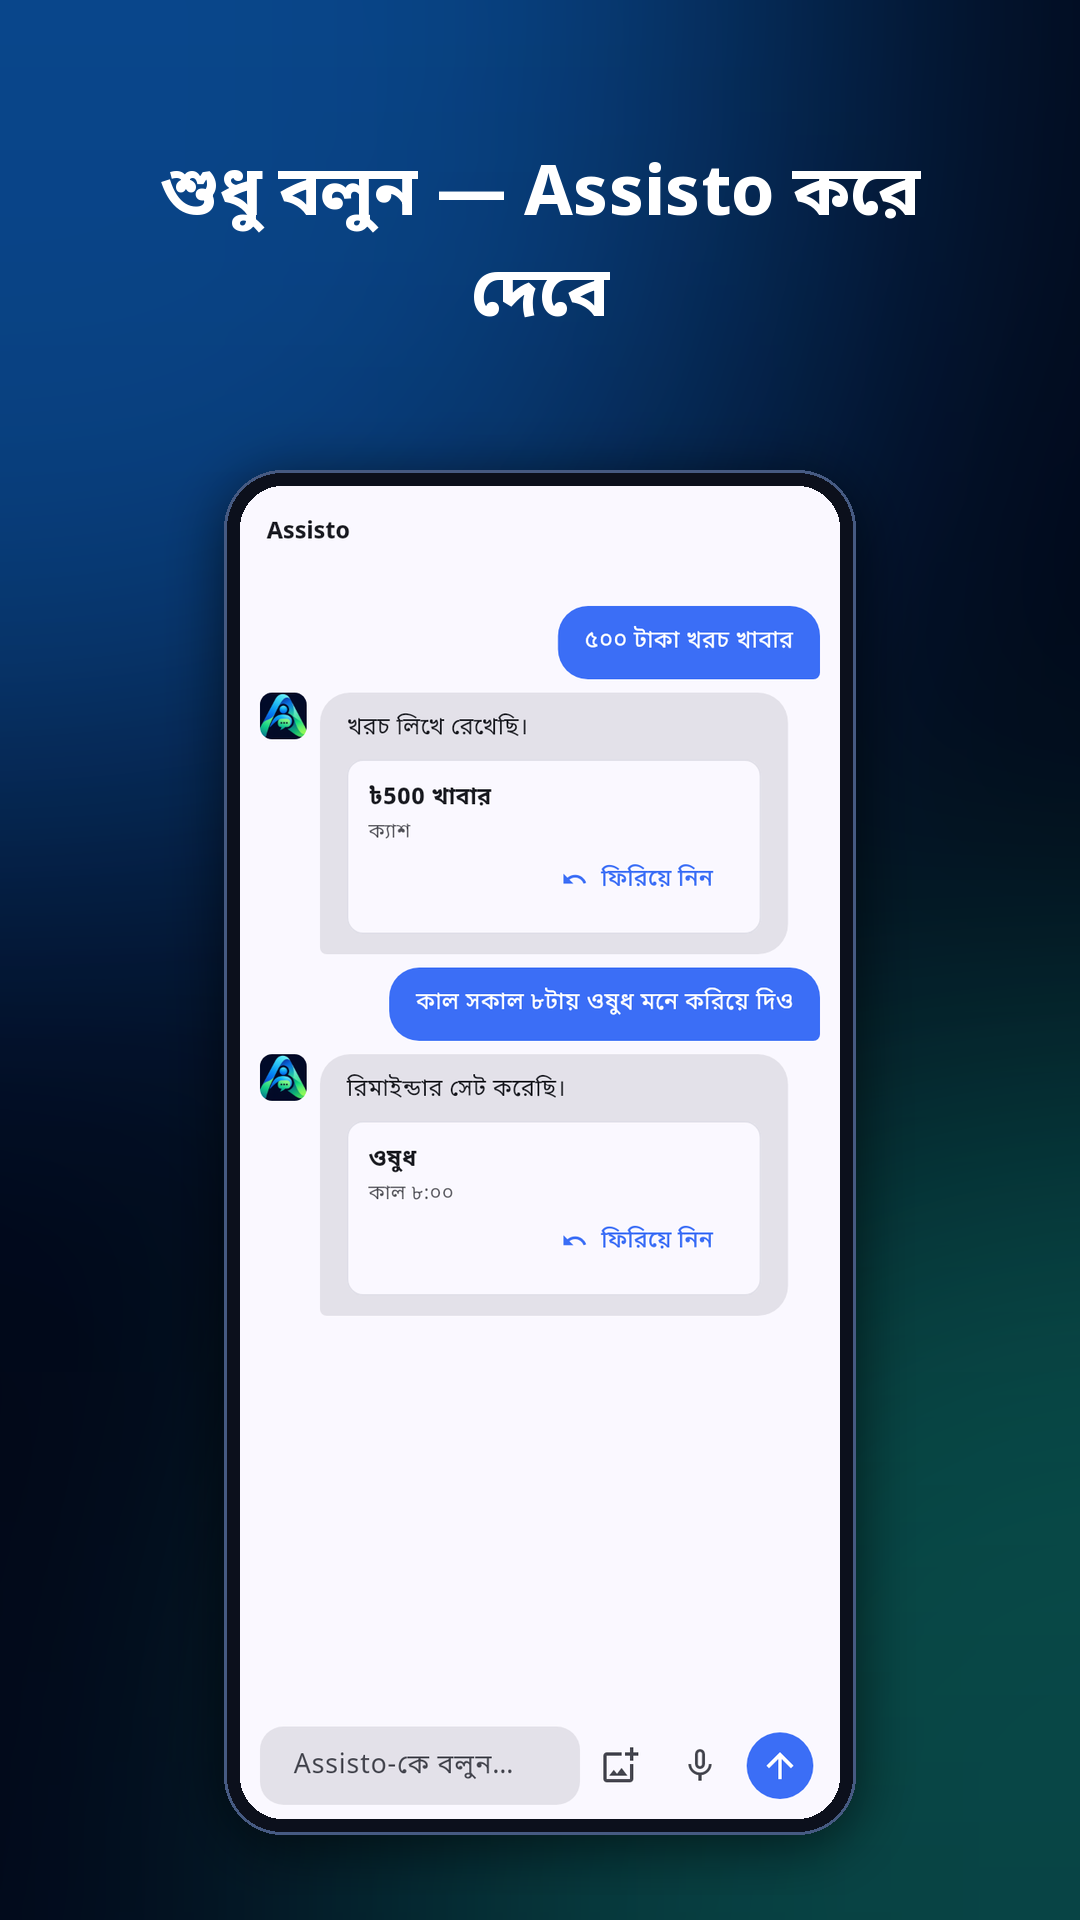
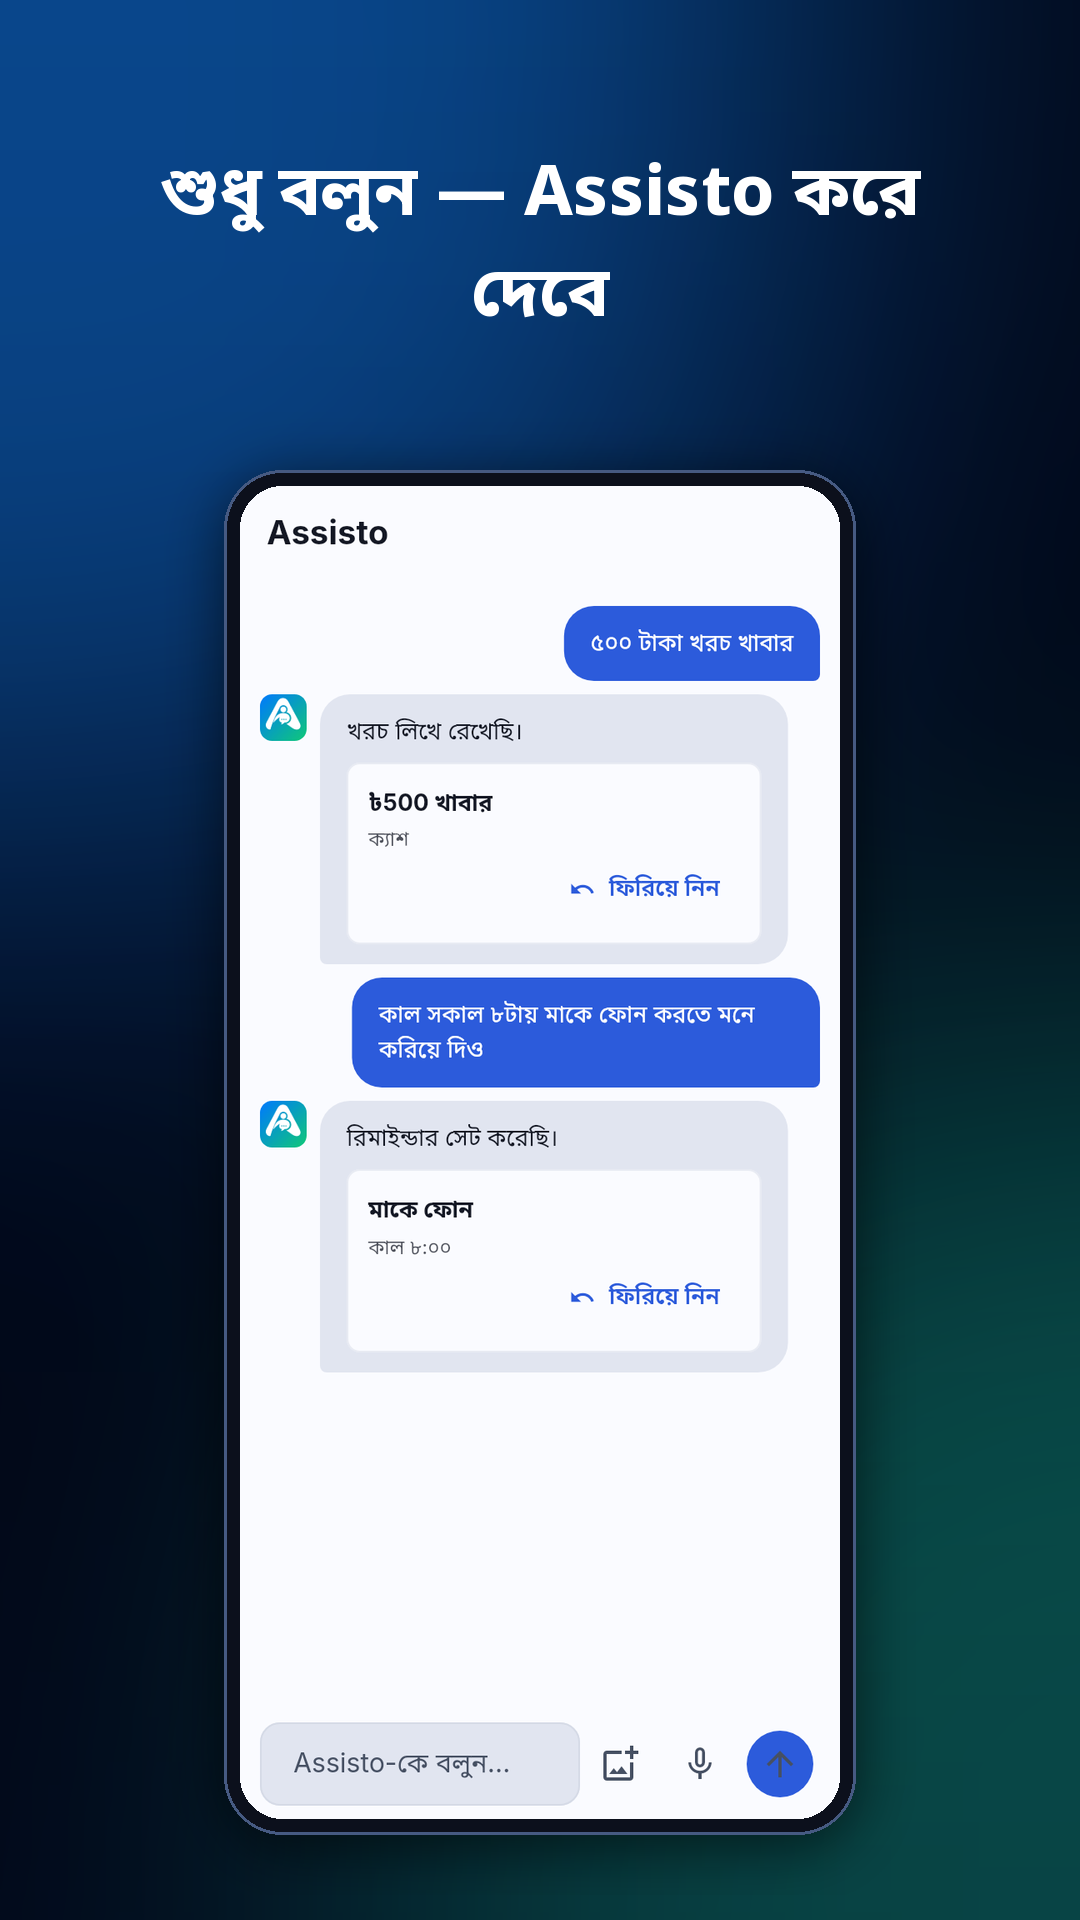
Play screenshot 4 (en+bn): demo reminder 'call mom' instead of medicine; compose.py ASSISTO_SLOTS filter

diff --git a/tools/play_store/compose.py b/tools/play_store/compose.py
@@ -168,10 +168,15 @@ def feature(lang):
 
 
 if __name__ == "__main__":
+    import os
+    # ASSISTO_SLOTS=4 rebuilds only those screenshots (feature graphics kept)
+    only = {int(x) for x in os.environ.get("ASSISTO_SLOTS", "").split(",") if x.strip()}
     for lang in ("en", "bn"):
-        feature(lang)
+        if not only:
+            feature(lang)
         for i, s in enumerate(SLOTS, 1):
-            store_shot(i, s, lang)
+            if not only or i in only:
+                store_shot(i, s, lang)
     # contact sheet
     cols, tw = 8, 270
     th = round(tw * 1920 / 1080)
@@ -183,7 +188,10 @@ if __name__ == "__main__":
     for k, lang in enumerate(("en", "bn")):
         fg = Image.open(OUT / f"feature_graphic_{lang}.png").resize((512, 250), Image.LANCZOS)
         sheet.paste(fg, (12 + k * 524, 2 * th + 36))
-    ic = Image.open(OUT / "icon_512.png").convert("RGB").resize((250, 250))
+    icp = OUT / "icon_512.png"
+    if not icp.exists():
+        icp = OUT / "assisto_play_icon_512.png"
+    ic = Image.open(icp).convert("RGB").resize((250, 250))
     sheet.paste(ic, (12 + 2 * 524, 2 * th + 36))
     sheet.save(OUT / "preview.png", optimize=True)
     print("done")
